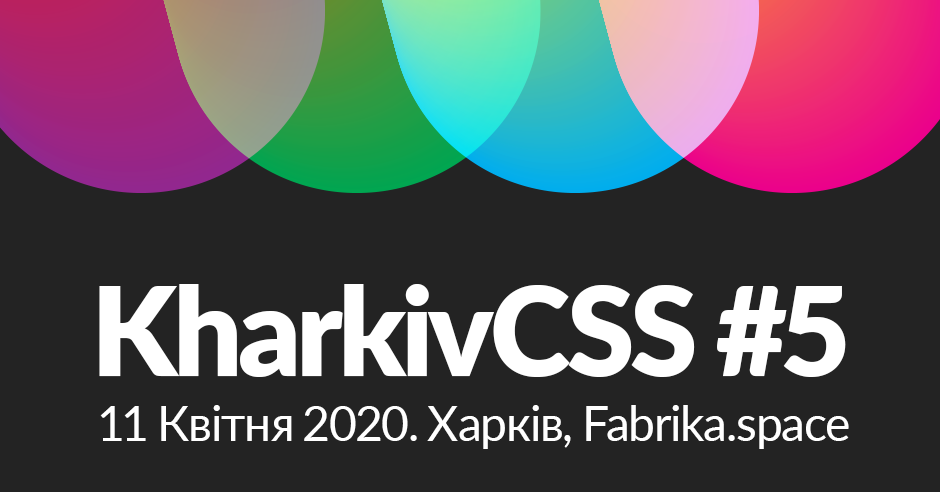
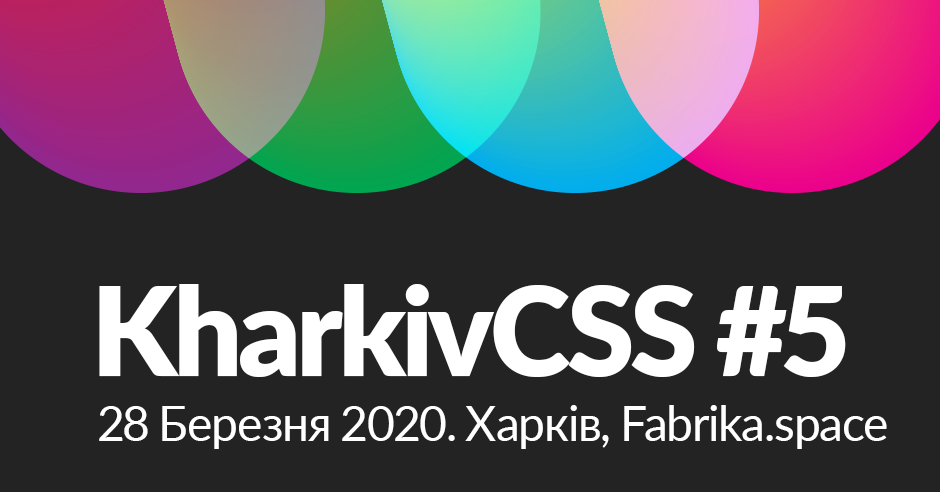
text: change dates

Changed region(s): [[0.0926, 0.8232, 0.9564, 0.9146]]

diff --git a/index.html b/index.html
@@ -67,7 +67,7 @@
 		<div class="logo"><h1><a href="/">KharkivCSS #5</a></h1></div>
 		<div class="locationHeader">
 			<address>Харків, Fabrika.space, вул.&nbsp;Благовіщенська,&nbsp;1</address>
-			<time datetime="2020-04-11">11 Квітня, 2020</time>
+			<time datetime="2020-03-28">28 Березня, 2020</time>
 		</div>
 		<div class="descriptionHeader">KharkivCSS — спільнота для Frontend/Backend розробників та дизайнерів, котрі хочуть дізнатися більше про нові і актуальні технологічні стандарти Всесвітньої павутини, обмінятися досвідом і поспілкуватися з однодумцями.</div>
 	</header><!-- end #header-->
@@ -438,7 +438,7 @@
 				<div class="titleSection"><h2 class="overLine">Місце</h2></div>
 				<div class="contentSection">
 					<address>Харків, Fabrika.space, вул.&nbsp;Благовіщенська,&nbsp;1</address>
-					<time datetime="2020-04-11">11 Квітня, 2020</time> <br />
+					<time datetime="2020-03-28">28 Березня, 2020</time> <br />
 				</div>
 			</section>
 
